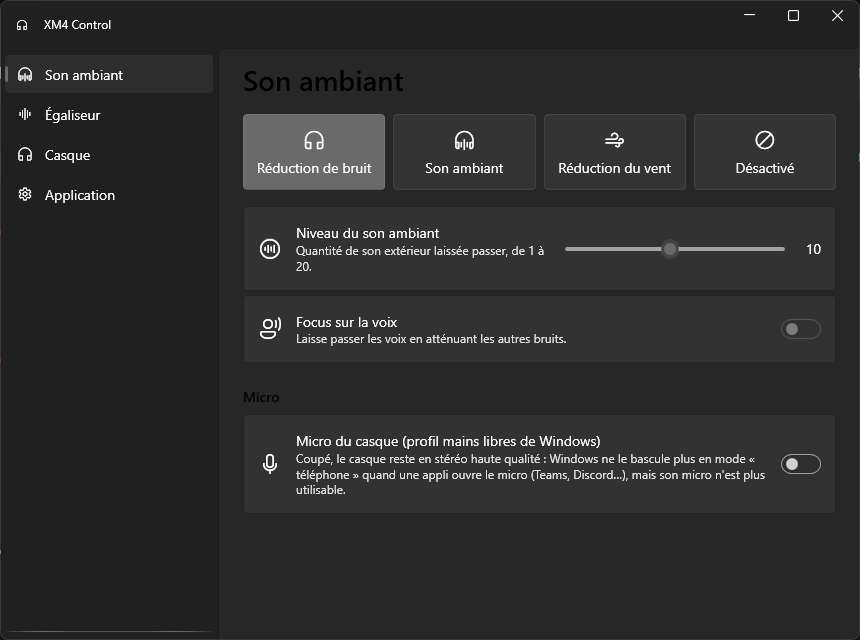
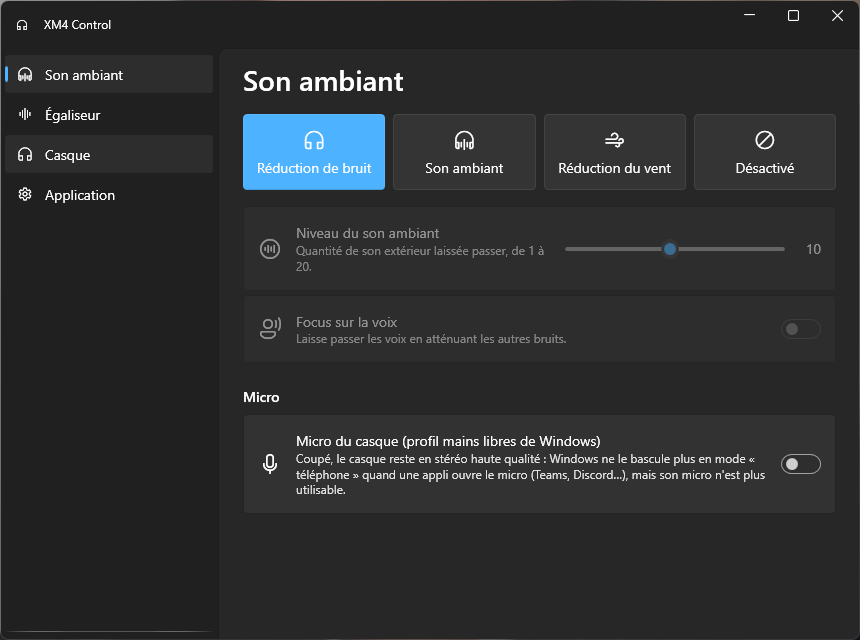
Corrige les couleurs : titres lisibles, accent bleu, cartes désactivées atténuées
- Les pages héritaient du texte noir par défaut de Page : titres presque
  invisibles sur fond sombre.
- Accent fixe (bleu de l'icône) au lieu de l'accent Windows, qui peut être
  gris et donner aux éléments actifs l'air d'être désactivés.
- Cartes désactivées à 50 % d'opacité (niveau du son ambiant hors mode son
  ambiant). Version 1.0.1.

diff --git a/src/Xm4Control.App/Views/FlyoutWindow.xaml b/src/Xm4Control.App/Views/FlyoutWindow.xaml
@@ -65,25 +65,27 @@
         </Grid>
 
         <!-- Niveau du son ambiant -->
-        <ui:Card Margin="0,12,0,0" Padding="14,10" IsEnabled="{Binding IsAmbient}">
-            <StackPanel>
-                <Grid>
-                    <TextBlock Text="Niveau du son ambiant" />
-                    <TextBlock HorizontalAlignment="Right" Style="{StaticResource Description}" Text="{Binding AmbientLevel}" />
-                </Grid>
-                <Slider
-                    Margin="0,6,0,4"
-                    IsSnapToTickEnabled="True"
-                    Maximum="20"
-                    Minimum="1"
-                    TickFrequency="1"
-                    Value="{Binding AmbientLevel, Delay=300}" />
-                <Grid>
-                    <TextBlock VerticalAlignment="Center" Text="Focus sur la voix" />
-                    <ui:ToggleSwitch HorizontalAlignment="Right" IsChecked="{Binding FocusOnVoice}" />
-                </Grid>
-            </StackPanel>
-        </ui:Card>
+        <Grid Margin="0,12,0,0" IsEnabled="{Binding IsAmbient}" Style="{StaticResource DimWhenDisabled}">
+            <ui:Card Padding="14,10">
+                <StackPanel>
+                    <Grid>
+                        <TextBlock Text="Niveau du son ambiant" />
+                        <TextBlock HorizontalAlignment="Right" Style="{StaticResource Description}" Text="{Binding AmbientLevel}" />
+                    </Grid>
+                    <Slider
+                        Margin="0,6,0,4"
+                        IsSnapToTickEnabled="True"
+                        Maximum="20"
+                        Minimum="1"
+                        TickFrequency="1"
+                        Value="{Binding AmbientLevel, Delay=300}" />
+                    <Grid>
+                        <TextBlock VerticalAlignment="Center" Text="Focus sur la voix" />
+                        <ui:ToggleSwitch HorizontalAlignment="Right" IsChecked="{Binding FocusOnVoice}" />
+                    </Grid>
+                </StackPanel>
+            </ui:Card>
+        </Grid>
 
         <!-- Micro -->
         <ui:CardControl Margin="0,8,0,0" Padding="14,10" Icon="{ui:SymbolIcon Mic24}" IsEnabled="{Binding MicAvailable}">

diff --git a/src/Xm4Control.App/App.xaml b/src/Xm4Control.App/App.xaml
@@ -14,6 +14,23 @@
 
             <BooleanToVisibilityConverter x:Key="BoolToVisibility" />
 
+            <!-- Cartes désactivées (ex. niveau du son ambiant en réduction de bruit) : atténuées, sinon
+                 le curseur à la couleur d'accent les fait paraître actives. -->
+            <Style x:Key="DimWhenDisabled" TargetType="FrameworkElement">
+                <Style.Triggers>
+                    <Trigger Property="IsEnabled" Value="False">
+                        <Setter Property="Opacity" Value="0.5" />
+                    </Trigger>
+                </Style.Triggers>
+            </Style>
+            <Style TargetType="ui:CardControl" BasedOn="{StaticResource DefaultUiCardControlStyle}">
+                <Style.Triggers>
+                    <Trigger Property="IsEnabled" Value="False">
+                        <Setter Property="Opacity" Value="0.5" />
+                    </Trigger>
+                </Style.Triggers>
+            </Style>
+
             <!-- Tuile de mode (réduction de bruit, son ambiant…) : accentuée quand le mode est actif. -->
             <Style x:Key="ModeTile" TargetType="ToggleButton" BasedOn="{StaticResource {x:Type ToggleButton}}">
                 <Setter Property="Height" Value="76" />

diff --git a/src/Xm4Control.App/Views/Pages/SoundPage.xaml b/src/Xm4Control.App/Views/Pages/SoundPage.xaml
@@ -5,6 +5,7 @@
     xmlns:protocol="clr-namespace:Xm4Control.Core.Protocol;assembly=Xm4Control.Core"
     xmlns:ui="http://schemas.lepo.co/wpfui/2022/xaml"
     xmlns:views="clr-namespace:Xm4Control.App.Views"
+    Foreground="{DynamicResource TextFillColorPrimaryBrush}"
     Title="Son ambiant">
     <StackPanel Margin="24,12,24,24">
         <ui:TextBlock Margin="0,0,0,16" FontTypography="Title" Text="Son ambiant" />

diff --git a/src/Xm4Control.App/Views/Pages/AppPage.xaml b/src/Xm4Control.App/Views/Pages/AppPage.xaml
@@ -3,6 +3,7 @@
     xmlns="http://schemas.microsoft.com/winfx/2006/xaml/presentation"
     xmlns:x="http://schemas.microsoft.com/winfx/2006/xaml"
     xmlns:ui="http://schemas.lepo.co/wpfui/2022/xaml"
+    Foreground="{DynamicResource TextFillColorPrimaryBrush}"
     Title="Application">
     <StackPanel Margin="24,12,24,24">
         <ui:TextBlock Margin="0,0,0,16" FontTypography="Title" Text="Application" />

diff --git a/src/Xm4Control.App/Views/Pages/EqualizerPage.xaml b/src/Xm4Control.App/Views/Pages/EqualizerPage.xaml
@@ -5,6 +5,7 @@
     xmlns:controls="clr-namespace:Xm4Control.App.Controls"
     xmlns:ui="http://schemas.lepo.co/wpfui/2022/xaml"
     xmlns:views="clr-namespace:Xm4Control.App.Views"
+    Foreground="{DynamicResource TextFillColorPrimaryBrush}"
     Title="Égaliseur">
     <StackPanel Margin="24,12,24,24">
         <ui:TextBlock Margin="0,0,0,16" FontTypography="Title" Text="Égaliseur" />

diff --git a/src/Xm4Control.App/Views/Pages/HeadsetPage.xaml b/src/Xm4Control.App/Views/Pages/HeadsetPage.xaml
@@ -4,6 +4,7 @@
     xmlns:x="http://schemas.microsoft.com/winfx/2006/xaml"
     xmlns:ui="http://schemas.lepo.co/wpfui/2022/xaml"
     xmlns:views="clr-namespace:Xm4Control.App.Views"
+    Foreground="{DynamicResource TextFillColorPrimaryBrush}"
     Title="Casque">
     <StackPanel Margin="24,12,24,24">
         <ui:TextBlock Margin="0,0,0,16" FontTypography="Title" Text="Casque" />

diff --git a/src/Xm4Control.App/App.xaml.cs b/src/Xm4Control.App/App.xaml.cs
@@ -1,6 +1,7 @@
 using System.IO;
 using System.Windows;
 using System.Windows.Controls;
+using System.Windows.Media;
 using System.Windows.Threading;
 using H.NotifyIcon;
 using H.NotifyIcon.Core;
@@ -47,6 +48,8 @@ public partial class App : Application
         // Garde l'entrée de démarrage alignée sur l'exe lancé (s'il a été mis à jour ou déplacé).
         if (AppSettings.StartWithWindows) AppSettings.StartWithWindows = true;
         ApplicationThemeManager.ApplySystemTheme();
+        ApplyAccent(ApplicationThemeManager.GetAppTheme());
+        ApplicationThemeManager.Changed += (theme, _) => ApplyAccent(theme);
         if (SynchronizationContext.Current is null)
             SynchronizationContext.SetSynchronizationContext(new DispatcherSynchronizationContext(Dispatcher));
 
@@ -90,6 +93,11 @@ public partial class App : Application
     }
 
     internal void ShowSettings(Type? page = null) => _settingsWindow?.ShowPage(page);
+
+    // Accent fixe, le bleu de l'icône : l'accent Windows peut être gris, et les éléments actifs
+    // (mode sélectionné, interrupteurs) auraient l'air désactivés. Les nuances suivent le thème clair/sombre.
+    private static void ApplyAccent(ApplicationTheme theme) =>
+        ApplicationAccentColorManager.Apply(Color.FromRgb(0x00, 0x78, 0xD4), theme, false, false);
 
     internal void Quit()
     {

diff --git a/src/Xm4Control.App/Views/FlyoutWindow.xaml.cs b/src/Xm4Control.App/Views/FlyoutWindow.xaml.cs
@@ -15,7 +15,7 @@ public partial class FlyoutWindow : FluentWindow
     {
         InitializeComponent();
         DataContext = viewModel;
-        Loaded += (_, _) => SystemThemeWatcher.Watch(this, WindowBackdropType.Mica, true);
+        Loaded += (_, _) => SystemThemeWatcher.Watch(this, WindowBackdropType.Mica, updateAccents: false);
         Deactivated += (_, _) => HideFlyout();
         SizeChanged += (_, _) => PlaceNearTray();
     }

diff --git a/src/Xm4Control.App/Views/SettingsWindow.xaml.cs b/src/Xm4Control.App/Views/SettingsWindow.xaml.cs
@@ -17,7 +17,7 @@ public partial class SettingsWindow : FluentWindow
         DataContext = viewModel;
         Loaded += (_, _) =>
         {
-            SystemThemeWatcher.Watch(this, WindowBackdropType.Mica, true);
+            SystemThemeWatcher.Watch(this, WindowBackdropType.Mica, updateAccents: false);
             Navigate(_pendingPage);
         };
     }
